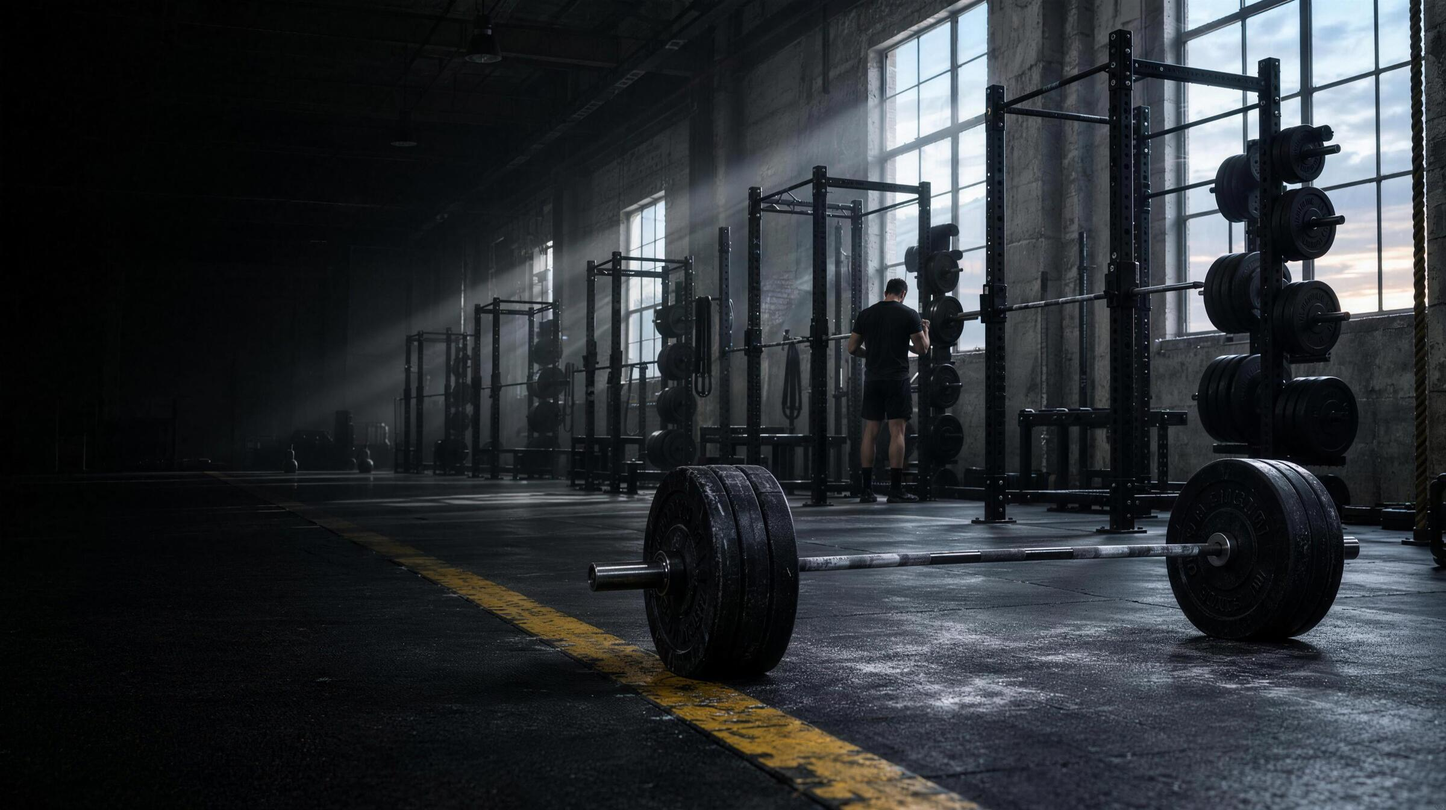
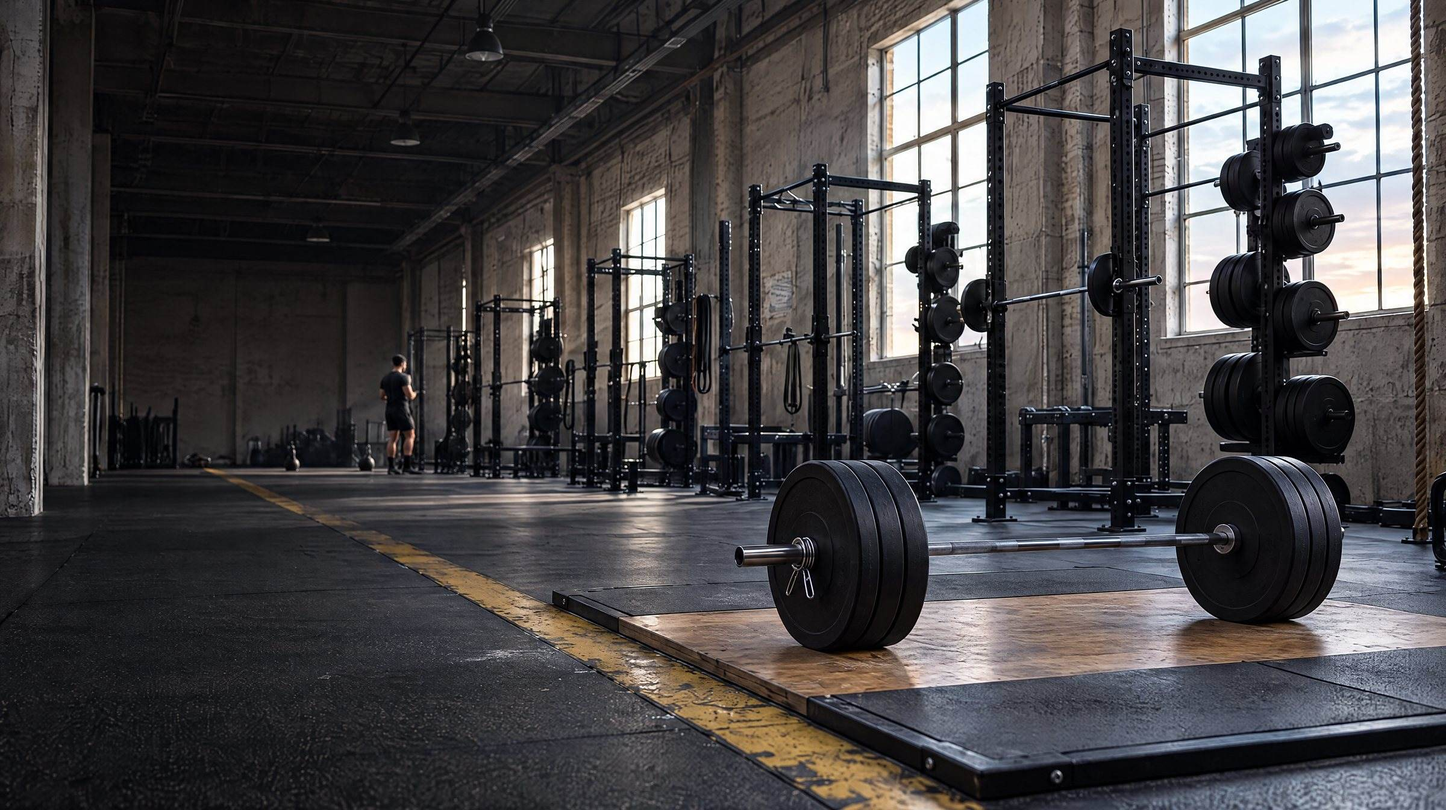
Inlay, Ballast, Lacquer Room: photos that look real
Re-shot after the realism audit, approved by Kyle and independently
reviewed on phone, tablet and desktop sizes.

- Inlay: crisp worsted cloth and a clean chalk line in the hero; a
  baste fitting with no waist seam.
- Ballast: matched plates with collars and the coach watching, a grip
  shot with sleeves and clips, a real DXA room, a brighter gym hero
  with the bar on a platform; a scrim keeps the app caption readable.
- Lacquer Room: a real car in a detailing bay; water beads on glossy
  coated paint. Alt text matches every photo.

Claude-Session: https://claude.ai/code/session_01LimQp9A32jopGDVLoZwNJe

diff --git a/public/work/ballast/index.html b/public/work/ballast/index.html
@@ -191,7 +191,7 @@ h2.disp{font-size:clamp(44px,6.6vw,108px)}
 .how{background:var(--iron-2);padding:clamp(84px,11vw,170px) var(--gut)}
 .how .grid{display:grid;grid-template-columns:minmax(0,5fr) minmax(0,7fr);gap:clamp(40px,6vw,110px);align-items:start}
 .how figure{position:sticky;top:40px}
-.how figure img{width:100%;height:auto;aspect-ratio:16/9;object-fit:cover;object-position:50% 0;border-radius:3px}
+.how figure img{width:100%;height:auto;aspect-ratio:16/9;object-fit:cover;object-position:50% 50%;border-radius:3px}
 .how figcaption{margin-top:12px;font-size:14.5px;color:var(--chalk-dim)}
 .how h2{margin-top:22px}
 .steps{list-style:none;margin-top:clamp(36px,5vw,64px);counter-reset:s}
@@ -212,7 +212,7 @@ h2.disp{font-size:clamp(44px,6.6vw,108px)}
 .feats span{color:var(--chalk-dim)}
 .stage{position:relative;min-height:clamp(620px,62vw,760px)}
 .stage>img{position:absolute;right:0;top:0;bottom:0;width:78%;height:100%;object-fit:cover;object-position:40% 50%;border-radius:3px;filter:saturate(.85)}
-.stage::after{content:"";position:absolute;right:0;top:0;bottom:0;width:78%;background:linear-gradient(90deg,var(--iron) 0%,rgba(15,16,16,.35) 30%,rgba(15,16,16,0) 60%);border-radius:3px;pointer-events:none}
+.stage::after{content:"";position:absolute;right:0;top:0;bottom:0;width:78%;background:linear-gradient(0deg,rgba(15,16,16,.82) 0%,rgba(15,16,16,0) 24%),linear-gradient(90deg,var(--iron) 0%,rgba(15,16,16,.35) 30%,rgba(15,16,16,0) 60%);border-radius:3px;pointer-events:none}
 .phone{position:absolute;z-index:2;left:6%;top:50%;transform:translateY(-50%) rotate(-3deg);width:300px;aspect-ratio:300/640;border-radius:46px;background:#050505;padding:11px;
   box-shadow:0 0 0 1.5px #2b2c2a,0 50px 90px rgba(0,0,0,.6),0 12px 30px rgba(0,0,0,.5)}
 .scr{position:relative;height:100%;border-radius:36px;background:#121312;overflow:hidden;padding:44px 14px 0;font-size:12.5px;line-height:1.35;color:var(--chalk)}
@@ -322,7 +322,7 @@ a.mark,.nav nav a{display:inline-flex;align-items:center;min-height:44px}
   </div>
   <picture>
     <source media="(max-width:820px)" srcset="img/hero-tall.jpg">
-    <img src="img/hero-wide.jpg" alt="A concrete strength gym at dawn: light through tall windows, rows of black power racks, a loaded barbell on the floor beside a worn yellow platform stripe, one lifter at a rack in the distance" fetchpriority="high">
+    <img src="img/hero-wide.jpg" alt="A concrete strength gym at dawn: light through tall windows, rows of black power racks, a loaded barbell resting on a lifting platform beside the yellow walkway line" fetchpriority="high">
   </picture>
   <div class="hero-copy" id="top">
     <h1 class="disp">The scale won't see it. <span class="y">The scan will.</span></h1>
@@ -343,7 +343,7 @@ a.mark,.nav nav a{display:inline-flex;align-items:center;min-height:44px}
         </div>
       </div>
       <figure>
-        <img src="img/scan-room.jpg" alt="A body composition scanner table in a quiet concrete room, a thin line of yellow light along the wall behind it" loading="lazy" width="896" height="1120">
+        <img src="img/scan-room.jpg" alt="A small, bright DXA room: scanner table with a paper sheet, the technologist's desk and monitor beside it" loading="lazy" width="896" height="1120">
         <figcaption>The DXA room. A few minutes lying still, ordered and overseen by our medical director. Weekly check-ins use an InBody scale on the floor.</figcaption>
       </figure>
     </div>
@@ -400,7 +400,7 @@ a.mark,.nav nav a{display:inline-flex;align-items:center;min-height:44px}
   <section class="how" id="how" aria-labelledby="how-h">
     <div class="grid">
       <figure>
-        <img src="img/coach.jpg" alt="A coach in black rests a hand on the upper back of a member in a black training set as she sets up under a barbell in a squat rack" loading="lazy" width="896" height="1120">
+        <img src="img/coach.jpg" alt="A coach stands to the side of a member in a squat rack, watching her set up, both ends of the bar loaded with matching plates" loading="lazy" width="896" height="1120">
         <figcaption>Coaching happens on the floor, one set at a time.</figcaption>
       </figure>
       <div>

diff --git a/public/work/lacquer-room/index.html b/public/work/lacquer-room/index.html
@@ -183,7 +183,7 @@ a.mark,.nav nav a,.link{display:inline-flex;align-items:center;min-height:44px}
   </div>
   <picture>
     <source media="(max-width:820px)" srcset="img/hero-tall.jpg">
-    <img src="img/hero-wide2.jpg" alt="Looking along the gloss black hood of a car in a dark studio, ceiling light bars reflected as clean unbroken lines" fetchpriority="high">
+    <img src="img/hero-wide2.jpg" alt="A gloss black car in a dark detailing bay, ceiling light bars reflected in long unbroken lines across the hood and windshield" fetchpriority="high">
   </picture>
   <div class="sweep" aria-hidden="true"></div>
   <div class="hero-copy" id="top">
@@ -232,7 +232,7 @@ a.mark,.nav nav a,.link{display:inline-flex;align-items:center;min-height:44px}
       <article class="svc"><h3>Interior restoration</h3><p>Leather cleaned and conditioned, Alcantara cleaned and brushed by hand, carpets shampooed and extracted. Steam for vents, seat rails and the places a vacuum can't reach.</p><small>Usually one day</small><small>From $250</small></article>
     </div>
     <figure>
-      <img src="img/beads.jpg" alt="Round water beads sitting on freshly coated graphite paint, a light bar reflected behind them" loading="lazy">
+      <img src="img/beads.jpg" alt="Round water beads sitting on freshly coated graphite paint, a light bar reflected through them" loading="lazy">
       <figcaption>Coated paint after a rinse. The water has nowhere to hold on.</figcaption>
     </figure>
   </section>

diff --git a/public/work/inlay/index.html b/public/work/inlay/index.html
@@ -229,7 +229,7 @@ footer .q a{text-decoration:underline;text-underline-offset:3px}
 
 <main id="top">
   <section class="hero" aria-label="Introduction">
-    <img src="img/hero-4k.jpg" alt="A tailor draws a chalk line along a paper pattern laid on navy wool, shears and tape measure beside it." fetchpriority="high">
+    <img src="img/hero-4k.jpg" alt="A tailor draws a chalk line along a paper pattern laid on navy wool, shears and a rolled tape measure beside it." fetchpriority="high">
     <div class="shade"></div>
     <!-- the chalk edge continues the line the tailor is drawing in the photograph -->
     <svg class="draw" viewBox="0 0 1344 752" preserveAspectRatio="xMidYMid slice" aria-hidden="true">
